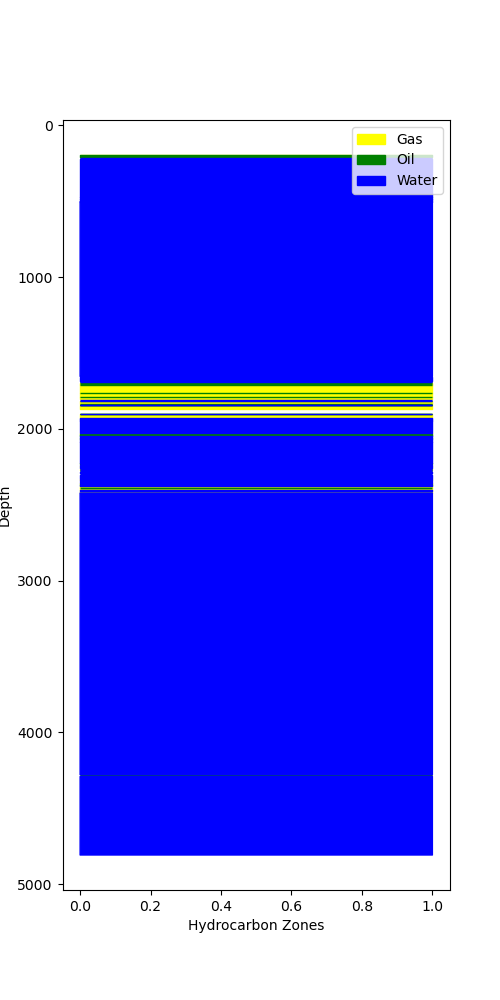
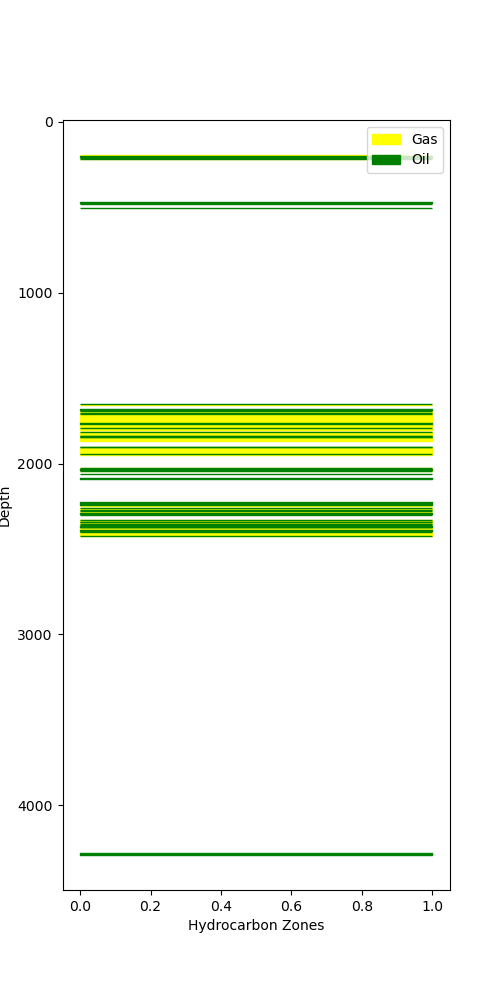
cross lot scale adjust

diff --git a/app.py b/app.py
@@ -50,31 +50,31 @@ def plot_well_logs(df, columns):
 
     st.pyplot(fig)
 
-def plot_cross_plots_with_color(df, x_column, y_column, color_column):
-    # Create a figure and axis for the plot
-    fig, ax = plt.subplots(figsize=(8, 6))
+def plot_cross_plots(df, neutron_column, density_column):
+    # Create a figure and the axis for the plot
+    fig, ax = plt.subplots(figsize=(4, 8))
 
-    # Create a scatter plot where color depends on the 'color_column'
-    scatter = ax.scatter(df[x_column], df[y_column], c=df[color_column], cmap='jet', alpha=0.6, edgecolor='k')
+    # Plot the neutron porosity (shared scale for both logs)
+    ax.plot(df[neutron_column], df['Depth'], color='blue', label=f"{neutron_column} (Neutron Porosity)", linewidth = 0.5)
 
-    # Add a colorbar for reference
-    cbar = plt.colorbar(scatter)
-    cbar.set_label(color_column)
+    # Plot the density porosity on the same axis
+    ax.plot(df[density_column], df['Depth'], color='green', label=f"{density_column} (Density Porosity)",linewidth = 0.5)
 
     # Set labels and title
-    ax.set_xlabel(x_column)
-    ax.set_ylabel(y_column)
-    ax.set_title(f"{x_column} vs {y_column} Colored by {color_column}")
+    ax.set_xlabel("Porosity (%)")  # Shared x-axis for porosity
+    ax.set_ylabel('Depth')
+    ax.set_title(f"{neutron_column} and {density_column} vs Depth")
 
-    # Optional: Draw a regression line
-    if x_column in df.columns and y_column in df.columns:
-        m, b = np.polyfit(df[x_column], df[y_column], 1)
-        ax.plot(df[x_column], m * df[x_column] + b, color='black', linewidth=2, label=f"y = {m:.2f}x + {b:.2f}")
-        ax.legend()
+    # Invert the vertical axis (depth increases downward)
+    ax.invert_yaxis()
+    ax.grid(True)
+    # Show legend
+    ax.legend()
 
-    # Show the plot
+    # Adjust layout and display the plot
     plt.tight_layout()
     st.pyplot(fig)
+
 
 
 # Function to calculate porosity
@@ -89,7 +89,7 @@ def classify_lithology(row):
     GR = row['GR']
     DPOR = row['DPOR']
     CNLS = row['CNLS']
-
+    
     # Basic lithology classification based on GR, DPOR, and CNLS
     vsh = row['Vsh']
     if vsh >= 0.5:
@@ -208,18 +208,17 @@ if not st.session_state.df.empty:
             plot_well_logs(st.session_state.df, selected_logs)
     else:
         columns_without_depth = [col for col in df.columns if col != 'Depth']
-        default_x_column = 'RHOB' if 'RHOB' in columns_without_depth else columns_without_depth[0]
-        default_y_column = 'MN' if 'MN' in columns_without_depth else columns_without_depth[0]
-        default_color_column = 'GR' if 'GR' in columns_without_depth else columns_without_depth[0]
-
+        default_x_column = 'DPOR' if 'DPOR' in columns_without_depth else columns_without_depth[0]
+        default_y_column = 'CNLS' if 'CNLS' in columns_without_depth else columns_without_depth[0]
+       
          # Streamlit selectbox with default preselected columns
         x_column = st.selectbox("Select X-axis for Cross Plot", columns_without_depth, index=columns_without_depth.index(default_x_column))
         y_column = st.selectbox("Select Y-axis for Cross Plot", columns_without_depth, index=columns_without_depth.index(default_y_column))
-        color_column = st.selectbox("Select Color Variable", columns_without_depth, index=columns_without_depth.index(default_color_column))
+        
 # Call the cross plot function only when both columns are selected
         if x_column and y_column:
     
-            plot_cross_plots_with_color(st.session_state.df , x_column, y_column, color_column)
+            plot_cross_plots(st.session_state.df , x_column, y_column)
             
     st.subheader("Lithology Classification")
 
@@ -273,11 +272,11 @@ if not st.session_state.df.empty:
             st.error("Porosity not calculated yet.")
             return df
 
-        gas_mask = (df['RILD'] > 100) & (df['porosity'] > 0.15)
         oil_mask = (df['RILD'] > 50) & (df['RILD'] <= 100) & (df['porosity'] > 0.1)
-        water_mask = ~gas_mask & ~oil_mask
+        gas_mask = (df['RILD'] > 100) & (df['porosity'] > 0.15) & (df['DPOR'] - df['CNLS'] > 10)
+       
 
-        df['hydrocarbon_zone'] = 'Water'
+       
         df.loc[gas_mask, 'hydrocarbon_zone'] = 'Gas'
         df.loc[oil_mask, 'hydrocarbon_zone'] = 'Oil'
 
@@ -296,7 +295,7 @@ if not st.session_state.df.empty:
             fig, ax = plt.subplots(figsize=(5, 10))
             ax.fill_betweenx(df['Depth'], 0, 1, where=(df['hydrocarbon_zone'] == 'Gas'), color='yellow', label='Gas')
             ax.fill_betweenx(df['Depth'], 0, 1, where=(df['hydrocarbon_zone'] == 'Oil'), color='green', label='Oil')
-            ax.fill_betweenx(df['Depth'], 0, 1, where=(df['hydrocarbon_zone'] == 'Water'), color='blue', label='Water')
+            # ax.fill_betweenx(df['Depth'], 0, 1, where=(df['hydrocarbon_zone'] == 'Water'), color='blue', label='Water')
             ax.invert_yaxis()
             ax.set_xlabel("Hydrocarbon Zones")
             ax.set_ylabel("Depth")
